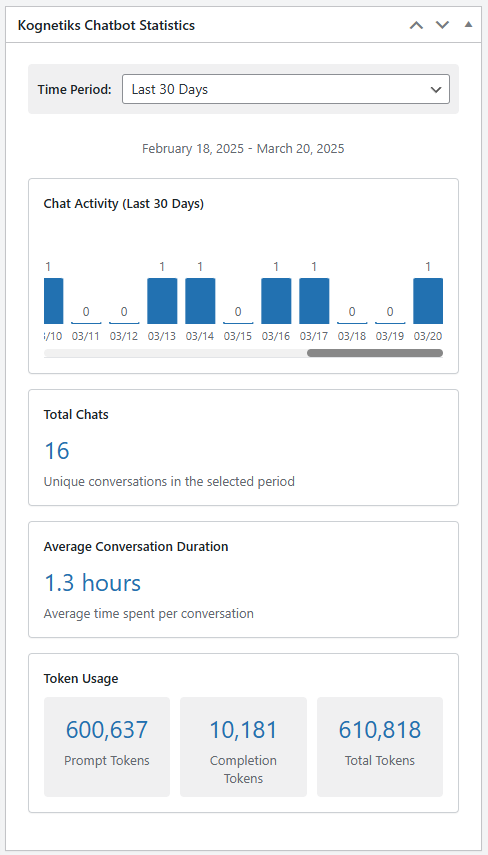
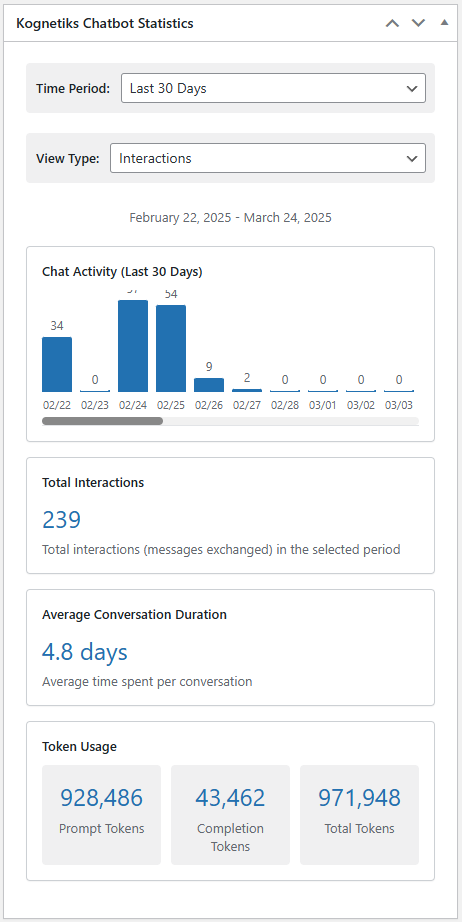
V2.2.7 - Admin dashboard widget ready for production testing

diff --git a/includes/dashboard/chatbot-chatgpt-dashboard-widget.php b/includes/dashboard/chatbot-chatgpt-dashboard-widget.php
@@ -47,11 +47,17 @@ function chatbot_chatgpt_dashboard_widget_content() {
     
     // Get the current period setting
     $period = get_option('chatbot_chatgpt_dashboard_period', '24h');
+    $view_type = get_option('chatbot_chatgpt_dashboard_view', 'sessions');
     
     // Handle form submission
     if (isset($_POST['chatbot_chatgpt_dashboard_period'])) {
         $period = sanitize_text_field($_POST['chatbot_chatgpt_dashboard_period']);
         update_option('chatbot_chatgpt_dashboard_period', $period);
+    }
+    
+    if (isset($_POST['chatbot_chatgpt_dashboard_view'])) {
+        $view_type = sanitize_text_field($_POST['chatbot_chatgpt_dashboard_view']);
+        update_option('chatbot_chatgpt_dashboard_view', $view_type);
     }
     
     // Calculate the start date based on the period
@@ -76,32 +82,68 @@ function chatbot_chatgpt_dashboard_widget_content() {
     
     // Get chat statistics
     $table_name = $wpdb->prefix . 'chatbot_chatgpt_conversation_log';
-    $chat_count = $wpdb->get_var($wpdb->prepare(
-        "SELECT COUNT(DISTINCT session_id) FROM $table_name WHERE interaction_time >= %s",
-        $start_date
-    ));
     
-    // Get daily chat counts for the graph
-    $daily_chats = $wpdb->get_results($wpdb->prepare(
-        "WITH RECURSIVE date_series AS (
-            SELECT DATE(%s) as date
-            UNION ALL
-            SELECT DATE_ADD(date, INTERVAL 1 " . ($period === '24h' ? 'HOUR' : 'DAY') . ")
-            FROM date_series
-            WHERE date < DATE(%s)
-        )
-        SELECT 
-            ds.date,
-            COALESCE(COUNT(DISTINCT cl.session_id), 0) as count
-        FROM date_series ds
-        LEFT JOIN $table_name cl ON " . ($period === '24h' ? 
-            "DATE_FORMAT(cl.interaction_time, '%Y-%m-%d %H:00:00') = ds.date" : 
-            "DATE(cl.interaction_time) = ds.date") . "
-        GROUP BY ds.date
-        ORDER BY ds.date ASC",
-        $start_date,
-        current_time('mysql')
-    ));
+    if ($view_type === 'sessions') {
+        $chat_count = $wpdb->get_var($wpdb->prepare(
+            "SELECT COUNT(DISTINCT session_id) FROM $table_name WHERE interaction_time >= %s",
+            $start_date
+        ));
+        
+        // Get daily chat counts for the graph
+        $daily_chats = $wpdb->get_results($wpdb->prepare(
+            "WITH RECURSIVE date_series AS (
+                SELECT DATE(%s) as date
+                UNION ALL
+                SELECT DATE_ADD(date, INTERVAL 1 " . ($period === '24h' ? 'HOUR' : 'DAY') . ")
+                FROM date_series
+                WHERE date < DATE(%s)
+            )
+            SELECT 
+                ds.date,
+                COALESCE(COUNT(DISTINCT cl.session_id), 0) as count
+            FROM date_series ds
+            LEFT JOIN $table_name cl ON " . ($period === '24h' ? 
+                "DATE_FORMAT(cl.interaction_time, '%Y-%m-%d %H:00:00') = ds.date" : 
+                "DATE(cl.interaction_time) = ds.date") . "
+            GROUP BY ds.date
+            ORDER BY ds.date ASC",
+            $start_date,
+            current_time('mysql')
+        ));
+    } else {
+        $chat_count = $wpdb->get_var($wpdb->prepare(
+            "SELECT COUNT(*) / 2 FROM $table_name 
+            WHERE interaction_time >= %s 
+            AND user_type IN ('Chatbot', 'Visitor')",
+            $start_date
+        ));
+        
+        // Get daily interaction counts for the graph
+        $daily_chats = $wpdb->get_results($wpdb->prepare(
+            "WITH RECURSIVE date_series AS (
+                SELECT DATE(%s) as date
+                UNION ALL
+                SELECT DATE_ADD(date, INTERVAL 1 " . ($period === '24h' ? 'HOUR' : 'DAY') . ")
+                FROM date_series
+                WHERE date < DATE(%s)
+            )
+            SELECT 
+                ds.date,
+                COALESCE(
+                    (SELECT COUNT(*) / 2 
+                     FROM $table_name 
+                     WHERE " . ($period === '24h' ? 
+                        "DATE_FORMAT(interaction_time, '%Y-%m-%d %H:00:00') = ds.date" : 
+                        "DATE(interaction_time) = ds.date") . "
+                     AND user_type IN ('Chatbot', 'Visitor')),
+                    0
+                ) as count
+            FROM date_series ds
+            ORDER BY ds.date ASC",
+            $start_date,
+            current_time('mysql')
+        ));
+    }
     
     // DIAG - Diagnotics - Ver 2.2.7
     if (empty($daily_chats)) {
@@ -296,6 +338,54 @@ function chatbot_chatgpt_dashboard_widget_content() {
                 white-space: nowrap;
                 text-transform: <?php echo $period === '7d' ? 'uppercase' : 'none'; ?>;
             }
+            .chatbot-view-selector {
+                margin-bottom: 20px;
+                padding: 10px;
+                background: #f0f0f1;
+                border-radius: 4px;
+                display: flex;
+                align-items: center;
+                gap: 10px;
+            }
+            .chatbot-view-selector label {
+                font-weight: 600;
+                color: #1d2327;
+            }
+            .chatbot-view-select {
+                width: 100%;
+                padding: 8px 12px;
+                border: 1px solid #8c8f94;
+                border-radius: 4px;
+                background-color: #fff;
+                color: #2c3338;
+                font-size: 14px;
+                line-height: 1.4;
+                appearance: none;
+                -webkit-appearance: none;
+                -moz-appearance: none;
+                position: relative;
+                padding-right: 30px;
+                background-image: none;
+            }
+            .chatbot-view-select:focus {
+                border-color: #2271b1;
+                box-shadow: 0 0 0 1px #2271b1;
+                outline: none;
+            }
+            .chatbot-view-select-wrapper {
+                position: relative;
+                flex: 1;
+            }
+            .chatbot-view-select-wrapper::after {
+                font-family: dashicons;
+                position: absolute;
+                right: 10px;
+                top: 50%;
+                transform: translateY(-50%);
+                pointer-events: none;
+                color: #2c3338;
+                font-size: 16px;
+            }
         </style>
         
         <form method="post" class="chatbot-period-selector">
@@ -307,6 +397,16 @@ function chatbot_chatgpt_dashboard_widget_content() {
                     <option value="30d" <?php selected($period, '30d'); ?>>Last 30 Days</option>
                     <option value="90d" <?php selected($period, '90d'); ?>>Last 90 Days</option>
                     <option value="365d" <?php selected($period, '365d'); ?>>Last 365 Days</option>
+                </select>
+            </div>
+        </form>
+        
+        <form method="post" class="chatbot-view-selector">
+            <label for="chatbot_chatgpt_dashboard_view">View Type:</label>
+            <div class="chatbot-view-select-wrapper">
+                <select name="chatbot_chatgpt_dashboard_view" id="chatbot_chatgpt_dashboard_view" onchange="this.form.submit()" class="chatbot-view-select">
+                    <option value="sessions" <?php selected($view_type, 'sessions'); ?>>Sessions</option>
+                    <option value="interactions" <?php selected($view_type, 'interactions'); ?>>Interactions</option>
                 </select>
             </div>
         </form>
@@ -331,10 +431,10 @@ function chatbot_chatgpt_dashboard_widget_content() {
                 if (!empty($daily_chats)) {
                     $max_count = max(array_column($daily_chats, 'count'));
                     foreach ($daily_chats as $day) {
-                        $height = $max_count > 0 ? ($day->count / $max_count * 100) : 0;
+                        $height = $max_count > 0 ? (round($day->count) / $max_count * 100) : 0;
                         ?>
                         <div class="chatbot-graph-bar" style="height: <?php echo $height; ?>%">
-                            <div class="chatbot-graph-value"><?php echo $day->count; ?></div>
+                            <div class="chatbot-graph-value"><?php echo round($day->count); ?></div>
                             <div class="chatbot-graph-label"><?php echo date('m/d', strtotime($day->date)); ?></div>
                         </div>
                         <?php
@@ -346,10 +446,25 @@ function chatbot_chatgpt_dashboard_widget_content() {
             </div>
         </div>
         
+        <script>
+            document.addEventListener('DOMContentLoaded', function() {
+                const graphContainer = document.querySelector('.chatbot-graph-container');
+                if (graphContainer) {
+                    // Scroll to the right
+                    graphContainer.scrollLeft = graphContainer.scrollWidth;
+                    
+                    // Add a small delay to ensure the scroll happens after all content is loaded
+                    setTimeout(() => {
+                        graphContainer.scrollLeft = graphContainer.scrollWidth;
+                    }, 100);
+                }
+            });
+        </script>
+        
         <div class="chatbot-stat-box">
-            <div class="chatbot-stat-title">Total Chats</div>
+            <div class="chatbot-stat-title">Total <?php echo $view_type === 'sessions' ? 'Sessions' : 'Interactions'; ?></div>
             <div class="chatbot-stat-value"><?php echo number_format($chat_count); ?></div>
-            <div class="chatbot-stat-label">Unique conversations in the selected period</div>
+            <div class="chatbot-stat-label"><?php echo $view_type === 'sessions' ? 'Unique conversations in the selected period' : 'Total interactions (messages exchanged) in the selected period'; ?></div>
         </div>
         
         <div class="chatbot-stat-box">

diff --git a/documentation/dashboard/dashboard.md b/documentation/dashboard/dashboard.md
@@ -28,17 +28,20 @@ You can view statistics for different time periods:
 - Last 90 Days
 - Last 365 Days
 
+### View Type
+You can view statistics for either Sessions or Interactions per Time Period
+
 ### Statistics Display
 
 #### Chat Activity Graph
 - Visual representation of chat activity over time
 - Bar chart showing the number of conversations per day/hour
-- Hover over bars to see exact numbers
 - Scroll horizontally to view all data points
 
-#### Total Chats
-- Shows the total number of unique conversations in the selected time period
-- Each conversation is counted only once, regardless of the number of messages
+#### Total Sessions or Interactions
+- Shows the total number of unique sessions, i.e., converations, or interactions (prompts and completions) in the selected time period
+- Each session is counted only once, regardless of the number of messages
+- Prompts and Completions are totaled then divided by two
 
 #### Average Conversation Duration
 - Displays the average time users spend in conversations
